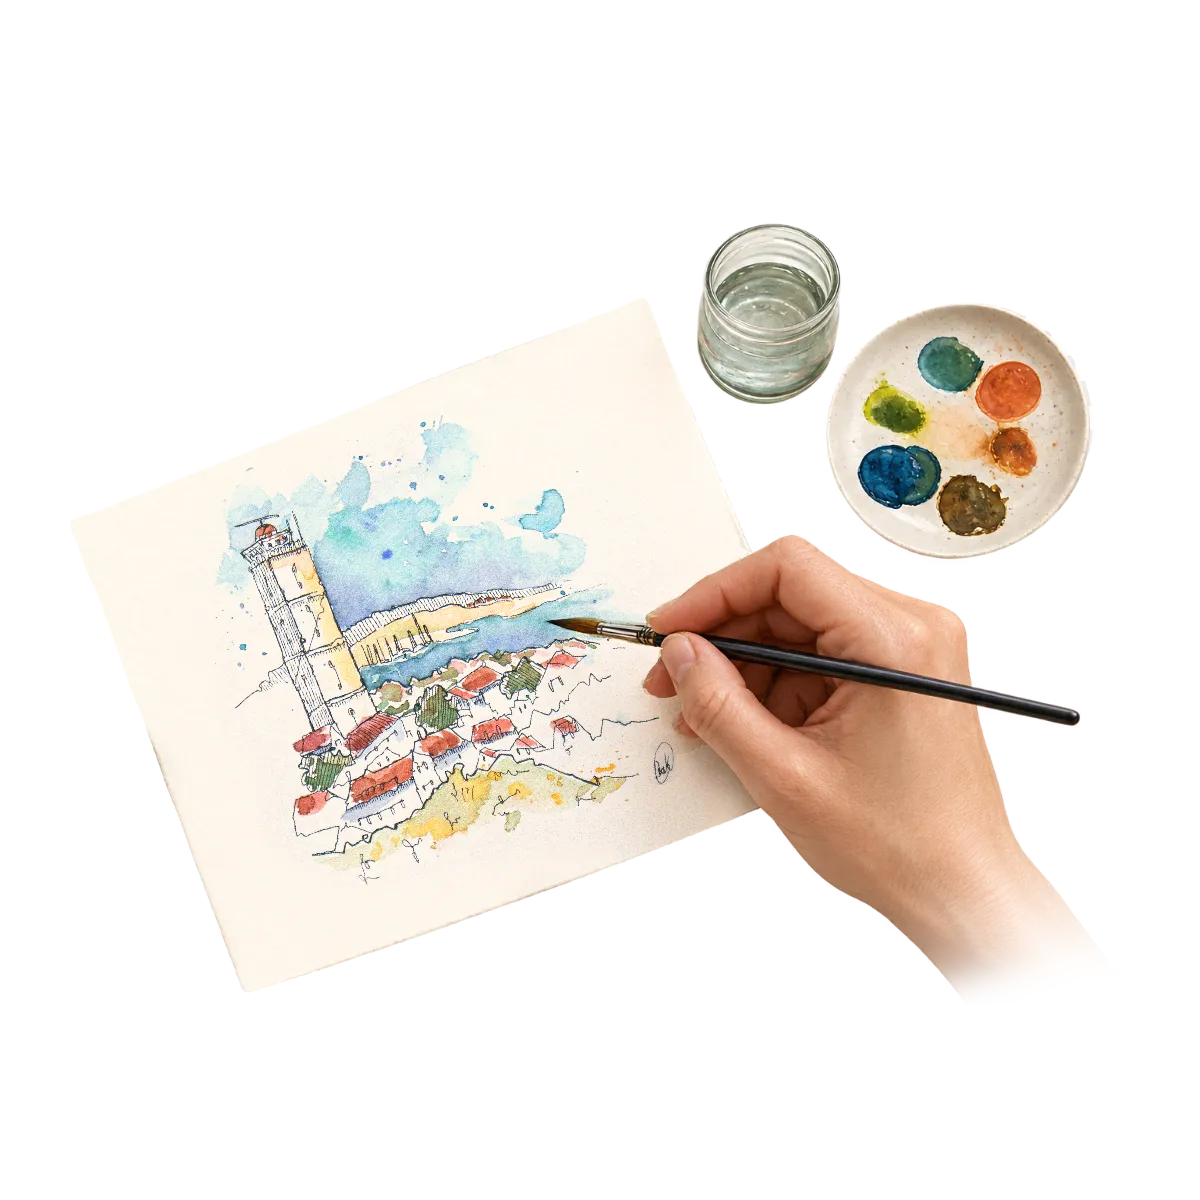
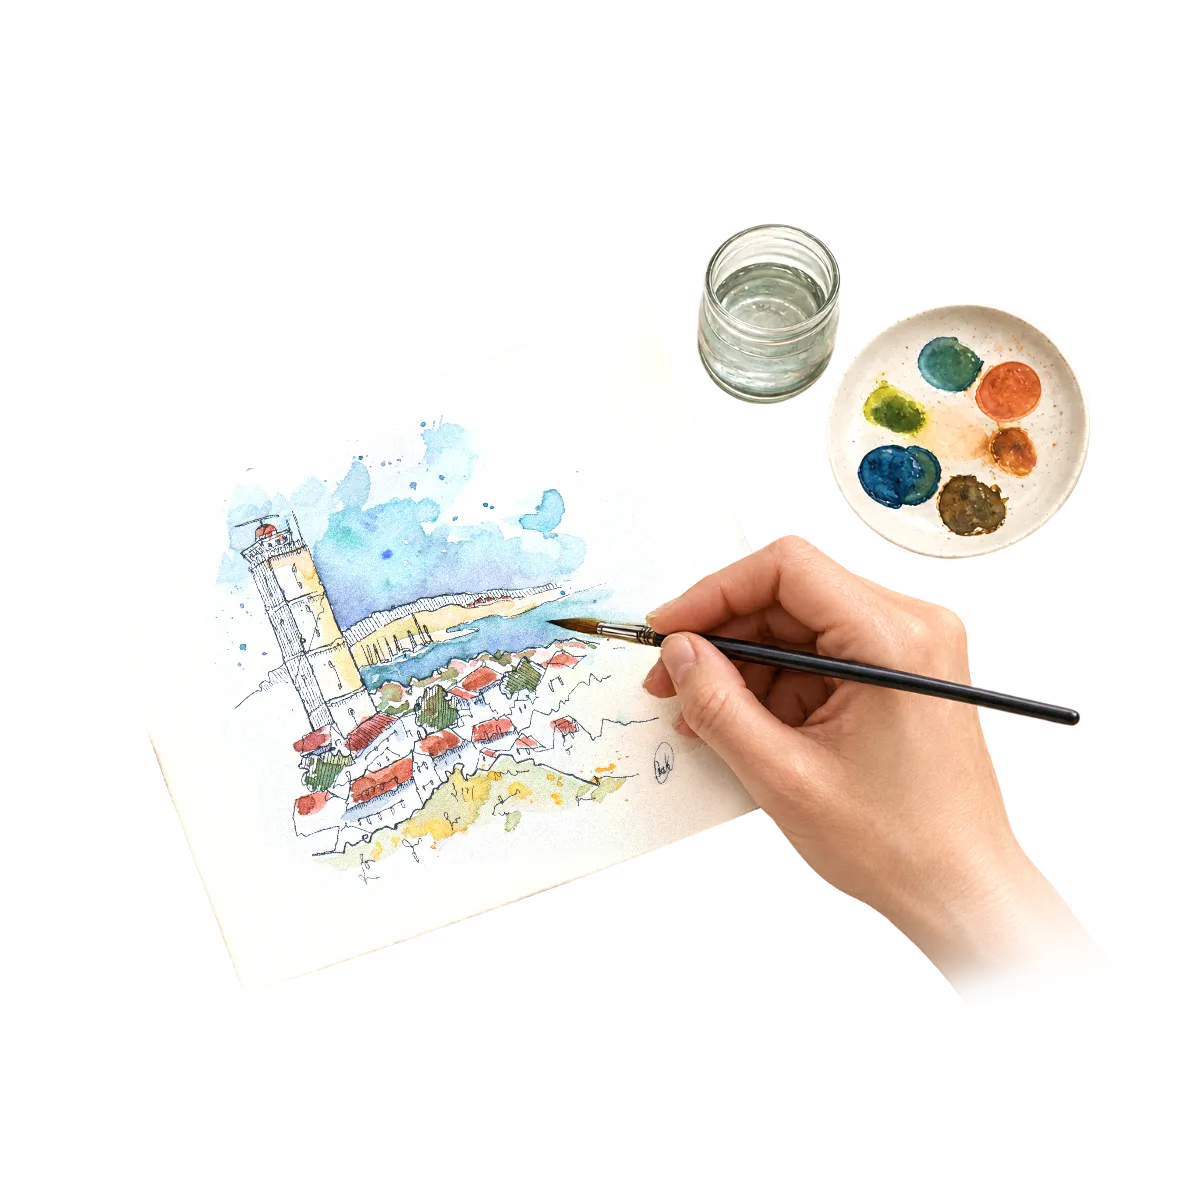
How it works: updated step 3 picture, step 1 10% brighter
Step 3's picture file was replaced (same content area, so the zoom still
fits). Step 1 gets brightness(1.1) through the step list, without editing
the image file.

diff --git a/src/pages/home/Process.jsx b/src/pages/home/Process.jsx
@@ -3,9 +3,10 @@ import { s } from '../../lib/css.js';
 
 // Steps 1 to 3 are square pictures with empty margin, so they are zoomed a
 // little (s) and centred on the objects (fx, fy) to fill the frame like
-// step 4.
+// step 4. `brightness` (1 = unchanged) lightens a picture without editing the
+// file.
 const STEPS = [
-  { key: 1, slotId: 'ad-process-1', src: '/uploads/Project%20(20260919052116).webp', focus: { s: 1.2, fx: 0.46, fy: 0.48 } },
+  { key: 1, slotId: 'ad-process-1', src: '/uploads/Project%20(20260919052116).webp', focus: { s: 1.2, fx: 0.46, fy: 0.48 }, brightness: 1.1 },
   { key: 2, slotId: 'ad-process-2', src: '/uploads/Project2%20(20260919052438).webp', focus: { s: 1.2, fx: 0.55, fy: 0.5 } },
   { key: 3, slotId: 'ad-process-3', src: '/uploads/Project%20(20260919055618).webp', focus: { s: 1.1, fx: 0.49, fy: 0.51 }, current: true },
   { key: 4, slotId: 'ad-process-4', src: '/uploads/proc-4.jpg' },
@@ -31,7 +32,7 @@ export default function Process({ t }) {
           {STEPS.map((step) => (
             <li key={step.key} className={'proc-step' + (step.current ? ' proc-step-current' : '')}>
               <div className="proc-art">
-                <Slot slotId={step.slotId} src={step.src} focus={step.focus} placeholder={'Photo for step ' + step.key} style={{ background: 'transparent' }} />
+                <Slot slotId={step.slotId} src={step.src} focus={step.focus} placeholder={'Photo for step ' + step.key} style={{ background: 'transparent', ...(step.brightness ? { filter: 'brightness(' + step.brightness + ')' } : {}) }} />
               </div>
               <div className="proc-badge-row">
                 <span className="proc-badge">{'0' + step.key}</span>
